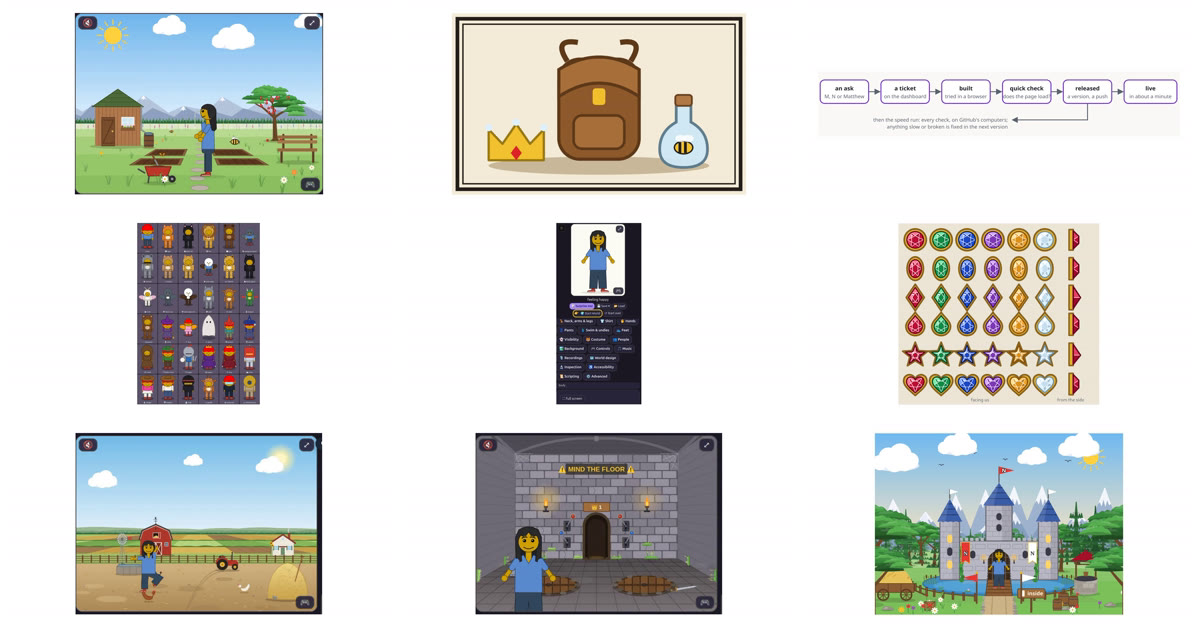
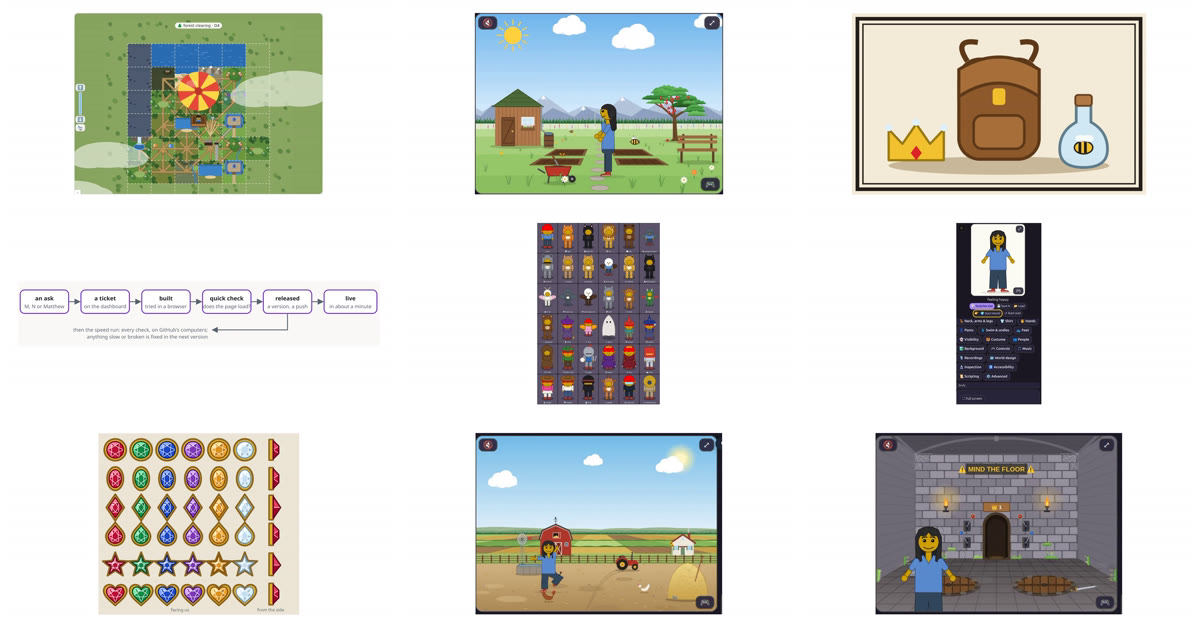
^du_report(25): its link preview, and the series index's

diff --git a/dress-up/reports/025/index.html b/dress-up/reports/025/index.html
@@ -6,6 +6,17 @@
 <script>try { var t = localStorage.getItem("theme"); if (t === "light" || t === "dark") document.documentElement.setAttribute("data-theme", t); } catch (e) {}</script>
 <meta name="viewport" content="width=device-width, initial-scale=1">
 <title>The World From Above in Messed Up Dress Up</title>
+<!-- og: begin (tools/og_previews.py in matthewhammer.github.io: the link preview's text and picture) -->
+<meta property="og:type" content="article">
+<meta property="og:title" content="The World From Above in Messed Up Dress Up">
+<meta property="og:description" content="A young player&#x27;s guide to flying, for M, who asked for it first: the 🎈 balloon and the 🫧 bubble, the whole world from above as a quilt of its squares, every place beside its square from above, every thing placed in them, and whether it keeps to 60 frames a second. From ^ticket(692).">
+<meta property="og:url" content="https://matthewhammer.org/kids-choice-games/dress-up/reports/025/">
+<meta property="og:image" content="https://matthewhammer.org/kids-choice-games/dress-up/reports/025/og.png">
+<meta property="og:image:width" content="1200">
+<meta property="og:image:height" content="630">
+<meta name="twitter:card" content="summary_large_image">
+<meta name="twitter:image" content="https://matthewhammer.org/kids-choice-games/dress-up/reports/025/og.png">
+<!-- og: end -->
 <link rel="preconnect" href="https://fonts.googleapis.com"><link rel="preconnect" href="https://fonts.gstatic.com" crossorigin>
 <link href="https://fonts.googleapis.com/css2?family=Literata:ital,opsz,wght@0,7..72,400;0,7..72,600;1,7..72,400&family=Press+Start+2P&family=VT323&display=swap" rel="stylesheet">
 <style>
